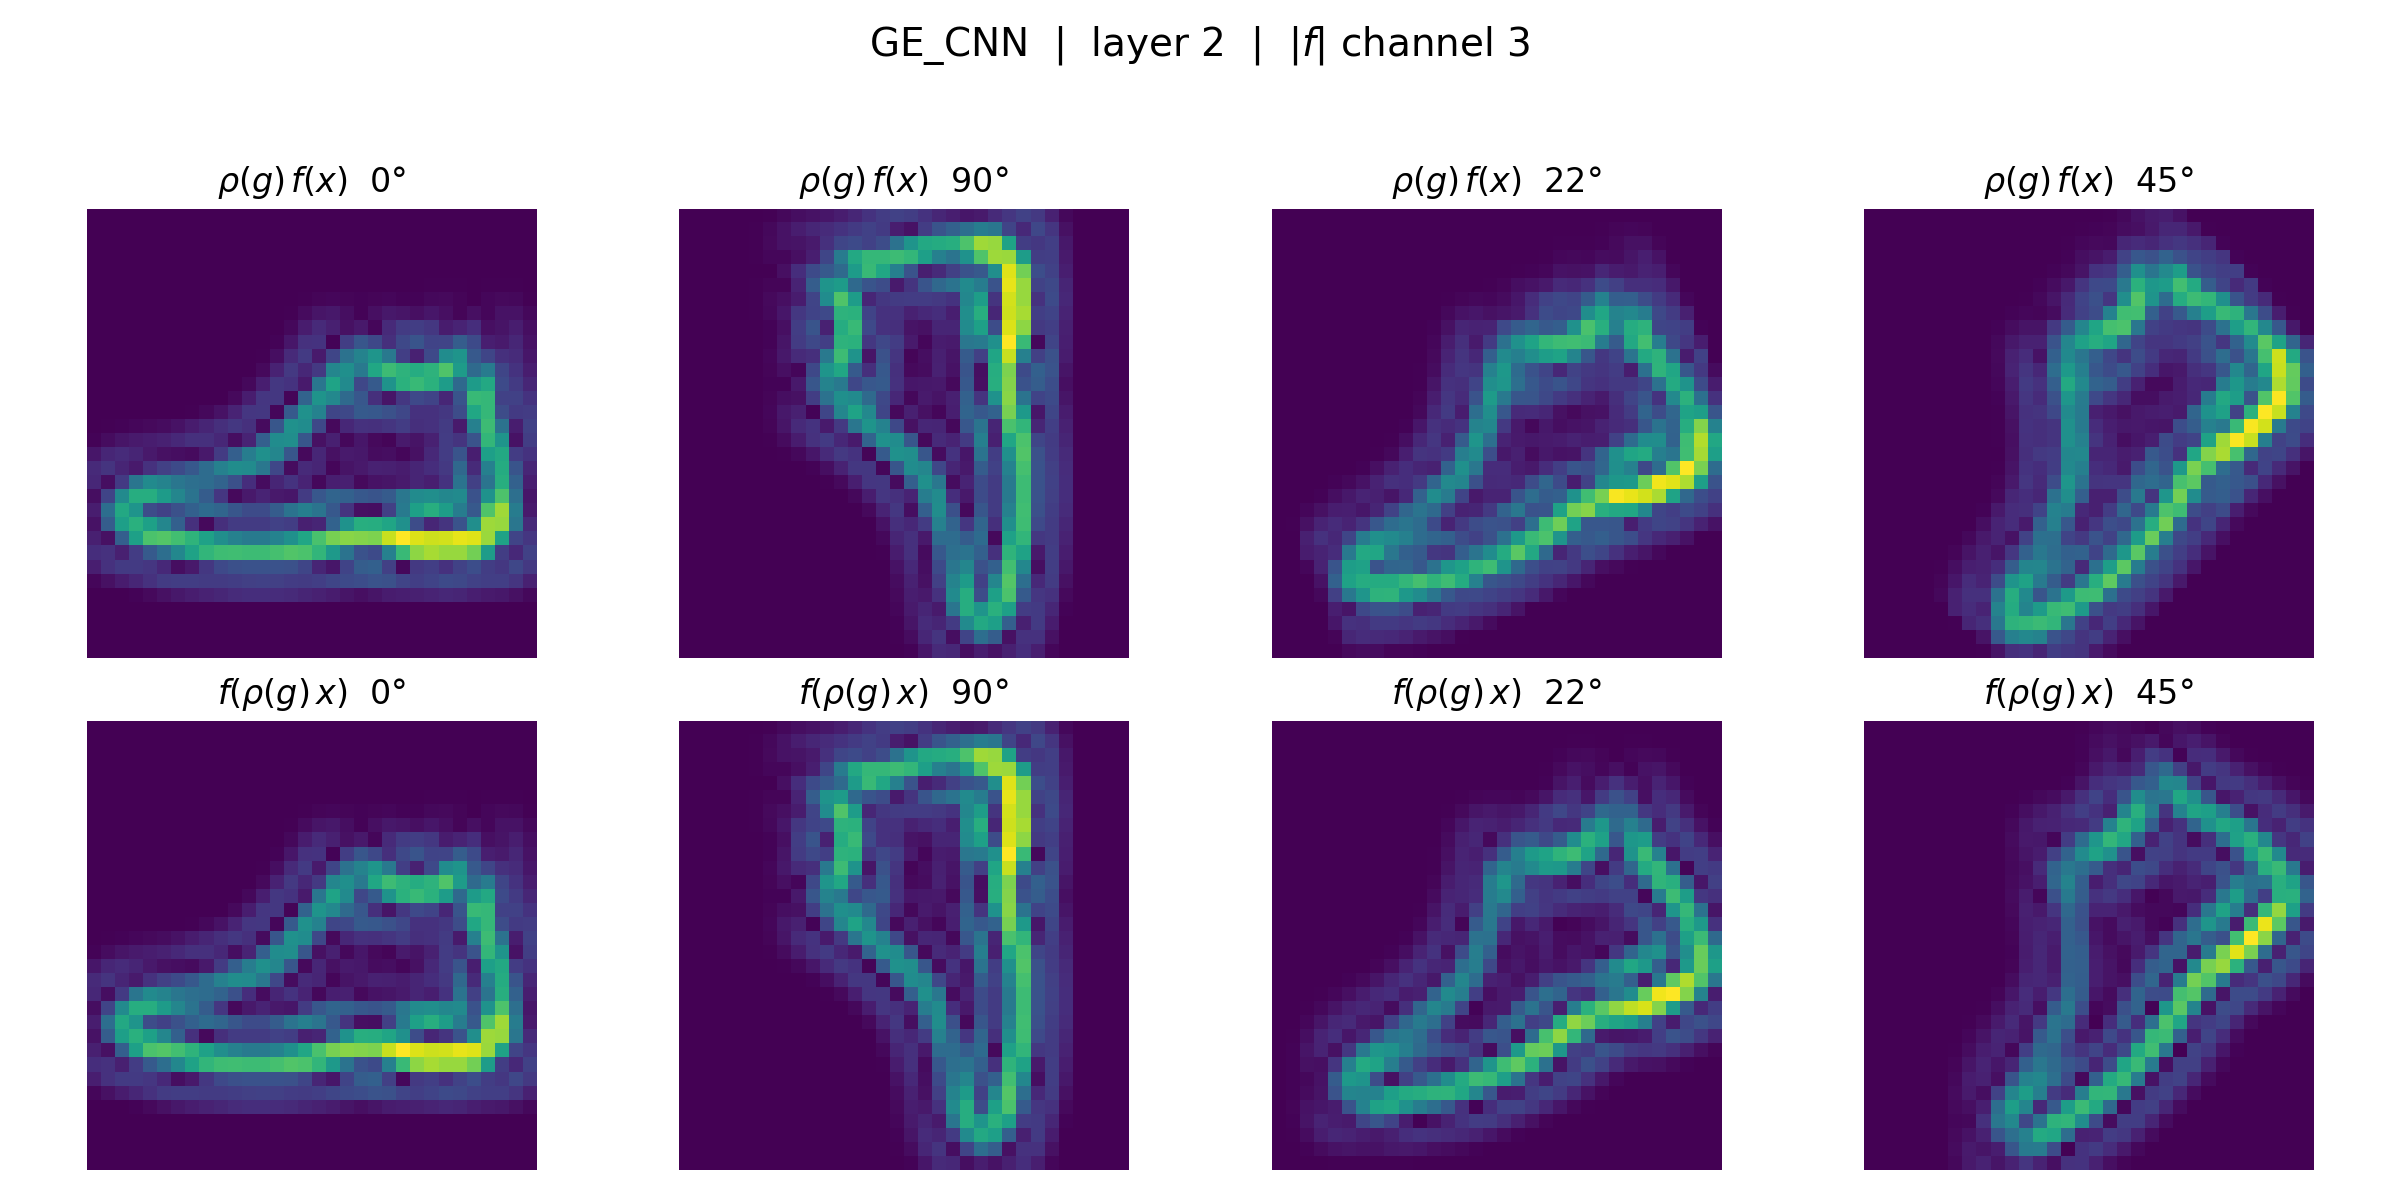
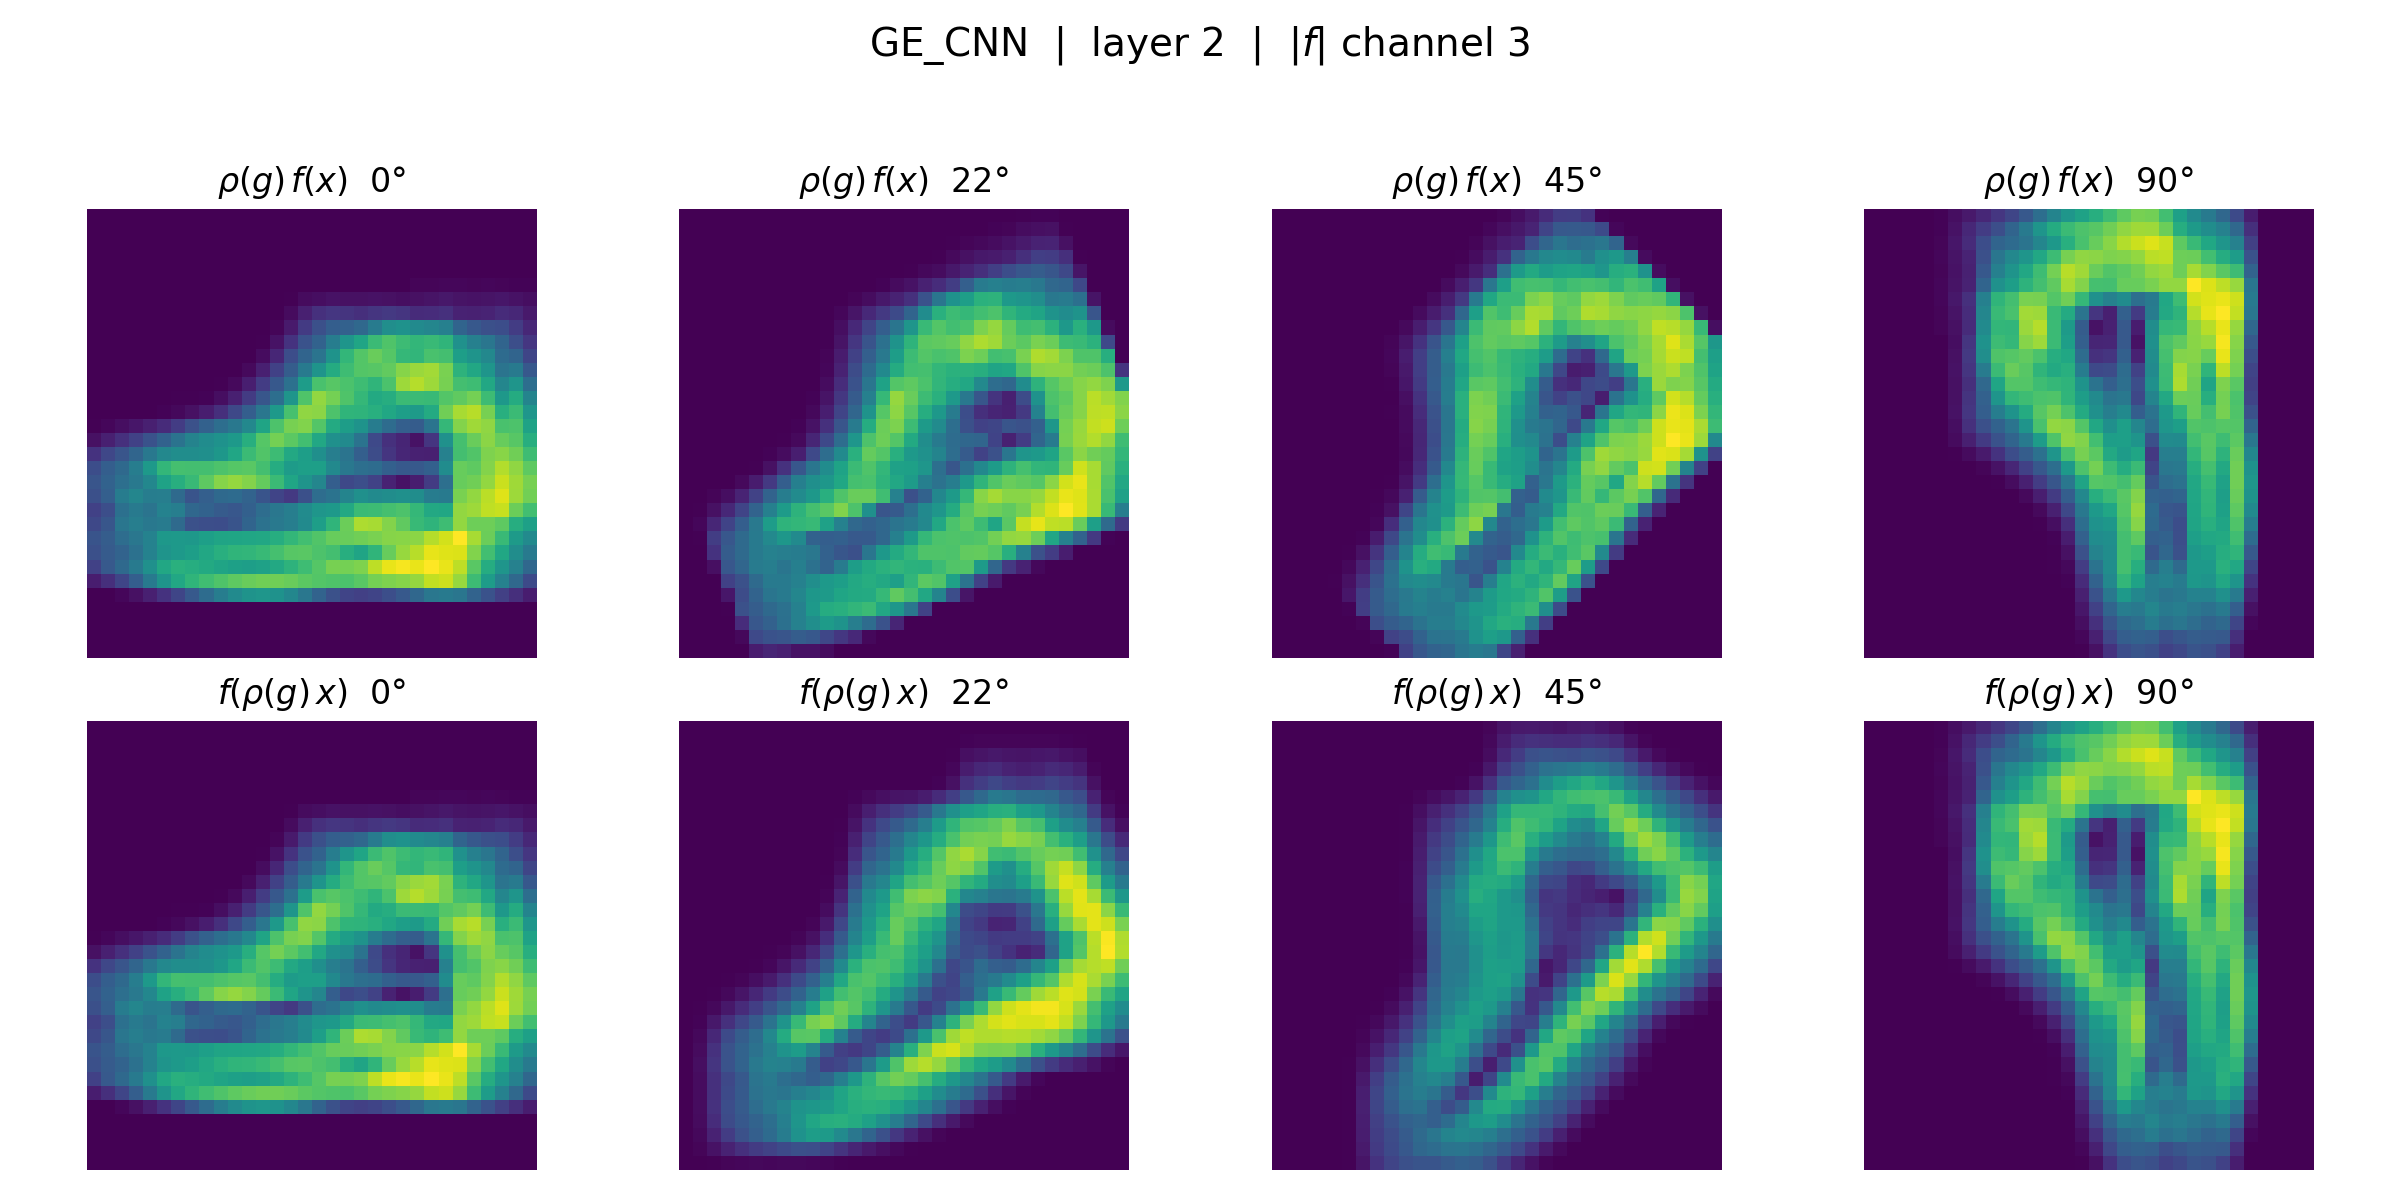
Updated plots for equivariance, using a new model

diff --git a/src/quantified_equivariance_test.py b/src/quantified_equivariance_test.py
@@ -30,8 +30,8 @@ from models.Model import CNN, GE_CNN
 
 # ---------------- FREE PARAMETERS ----------------
 WEIGHTS = {
-    "CNN":    ROOT / "models/model_weights/CNN_smallrot_ch4_l2_r6_3pct.pth",
-    "GE_CNN": ROOT / "models/model_weights/GE_CNN_smallrot_ch4_l2_r6_3pct.pth",
+    "CNN":    ROOT / "reports/unrot_test/10epoch_frac_0.03_15seeds/model_weights/CNN_smallrot_ch16_l2_r6_3pct_10epochs_seed10.pth",
+    "GE_CNN": ROOT / "reports/unrot_test/10epoch_frac_0.03_15seeds/model_weights/GE_CNN_smallrot_ch8_l2_r6_3pct_10epochs_seed6.pth",
 }
 N_ROTATIONS   = 16     # number of angles, full circle (multiple of 4 -> 90-deg pairs exist)
 TARGET_LAYER  = 6      # depth of the partial model used for the scalar metric table
@@ -119,7 +119,7 @@ def feats_at(model, target_layer, img):          # img [1,H,W] -> list of [C,h,w
         return [partial(r[None]).abs()[0] for r in rots]
 
 
-def plot_feature_grid(model, name, target_layer, channel, img, angles=(0, 90, 22.5, 45)):
+def plot_feature_grid(model, name, target_layer, channel, img, angles=(0, 22.5, 45,  90)):
     feats = feats_at(model, target_layer, img)
     idxs  = [min(range(len(ANGLES)), key=lambda k: abs(ANGLES[k] - a)) for a in angles]
     ch0   = feats[0][channel].cpu()
